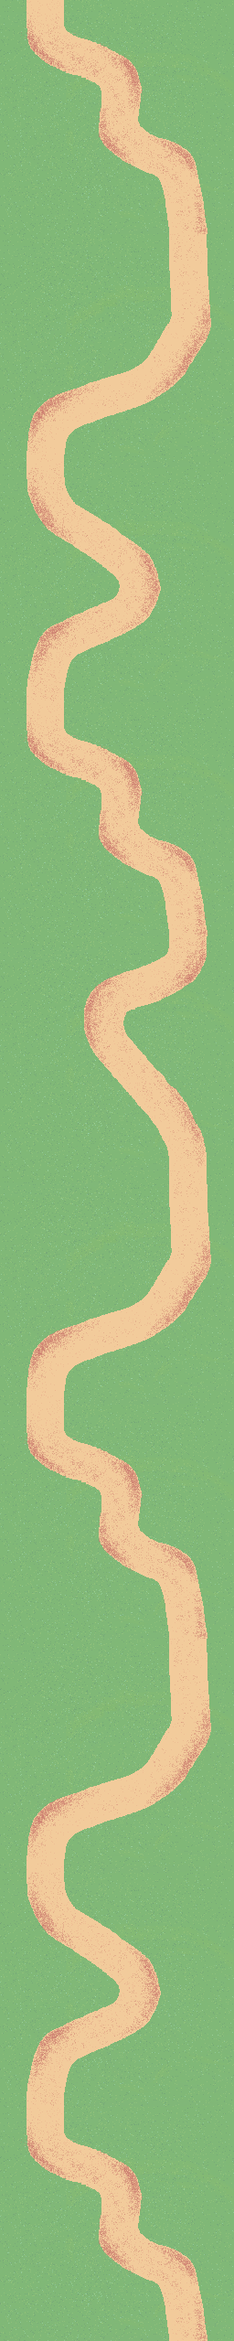
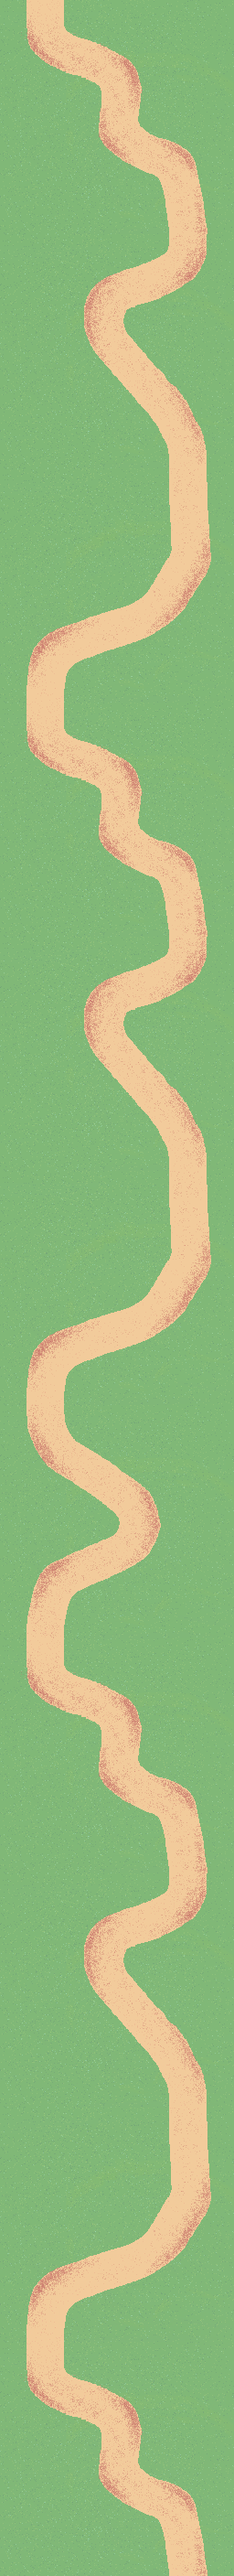
SISTEMATA LA MAPPA :D

diff --git a/src/main/java/com/example/carrace12/SpriteCar.java b/src/main/java/com/example/carrace12/SpriteCar.java
@@ -1,0 +1,81 @@
+package com.example.carrace12;
+
+import javafx.animation.AnimationTimer;
+import javafx.scene.image.Image;
+import javafx.scene.image.ImageView;
+
+import java.io.FileInputStream;
+import java.io.FileNotFoundException;
+import java.io.IOException;
+import java.io.InputStream;
+
+public class SpriteCar {
+    private double positionX;
+    private double positionY;
+    private int velX = 0, velY=0;
+    AnimationTimer atS;
+    ImageView car = new ImageView();
+
+    public SpriteCar(char startingPoint) throws IOException {
+        InputStream stream = new FileInputStream("src/main/resources/car.png");
+        Image img = new Image(stream);
+        car.setImage(img);
+        if(startingPoint == 'r'){ car.setX(ImplementazioneGrafica.xDimFinestra-200); }
+        else if(startingPoint == 'l'){ car.setX(200); }
+        car.setY(600);
+        car.setPreserveRatio(true);
+        positionX = car.getX();
+        positionY = car.getY();
+        car.setFitHeight(30);
+        car.setFitWidth(30);
+
+        atS = new AnimationTimer() {
+            @Override
+            public void handle(long l) {
+                positionX += velX;
+                car.setX(positionX);
+
+                positionY += velY;
+                car.setY(positionY);
+            }
+        };
+
+    }
+
+    void inclinazione (){}
+    void setVelX(int speed){
+        velX=speed;
+    }
+    void setVelY(int speed){
+        velY=speed;
+    }
+    double getPositionX(){
+        return positionX;
+    }
+    double getPositionY(){return positionY;}
+
+
+
+/*
+    void up(){
+        positionY = positionY - speed;
+        car.setY(positionY);
+    }
+
+    void down(){
+        positionY = positionY + speed;
+        car.setY(positionY);
+    }
+    void left(){
+        positionX = positionX - speed;
+        car.setX(positionX);
+    }
+    void right(){
+        positionX = positionX + speed;
+        car.setX(positionX);
+    }
+*/
+
+
+
+}

diff --git a/src/main/java/net/CRServer.java b/src/main/java/net/CRServer.java
@@ -1,12 +1,12 @@
 package net;
 
-import com.esotericsoftware.kryo.Kryo;
 import com.esotericsoftware.kryonet.*;
 
 import com.example.carrace12.ImplementazioneGrafica;
 import map.Map;
 
 import java.io.IOException;
+import java.util.List;
 
 /**
  * Car Race Lobby Server class.
@@ -22,7 +22,7 @@ public class CRServer {
     /**
      * Server (Kryonet).
      */
-    private final Server server;
+    final Server server;
 
     /**
      * Port of the Server.
@@ -43,6 +43,11 @@ public class CRServer {
      * If the Server is running.
      */
     public boolean isUsed;
+
+    /**
+     * Client List
+     */
+    public List<CRClient> clientList;
 
     /**
      * CRServer Constructor(s).
@@ -127,10 +132,11 @@ public class CRServer {
      */
     public void addListenerToServer(Map map) {
         this.server.addListener(new Listener() {
-            public void received(Connection connection, Object object) {
-                if (object instanceof String) {
-                    ImplementazioneGrafica.main(new String[]{ seed });
-                }
+            public void received(Connection connection, Object object){
+                //if (object instanceof CRRequest) {
+                    ImplementazioneGrafica GUI = new ImplementazioneGrafica();
+                    GUI.main(new String[]{ seed });
+                //}
             }
         });
     }

diff --git a/src/main/java/com/example/carrace12/mapBackground.java b/src/main/java/com/example/carrace12/mapBackground.java
@@ -1,0 +1,39 @@
+package com.example.carrace12;
+
+import javafx.animation.AnimationTimer;
+import javafx.scene.image.Image;
+import javafx.scene.image.ImageView;
+import map.Map;
+import map.Chunk;
+
+import java.io.FileInputStream;
+import java.io.FileNotFoundException;
+import java.io.IOException;
+import java.io.InputStream;
+
+import static map.Chunk.CHUNK_WIDTH;
+
+public class mapBackground {
+    ImageView background = new ImageView();
+    AnimationTimer atB;
+    private double yMap;
+    private double velY;
+    public mapBackground(Map map) throws IOException {
+        yMap = -(map.length()*CHUNK_WIDTH*4);
+        System.out.println("mapB: " + yMap);
+        InputStream stream = new FileInputStream("src/main/resources/map.png");
+        Image img = new Image(stream);
+        background.setImage(img);
+        atB = new AnimationTimer() {
+            @Override
+            public void handle(long l) {
+                yMap += velY;
+                background.setY(yMap + ImplementazioneGrafica.yDimFinestra);
+            }
+        };
+    }
+
+    void setVelYB(int speed){
+        velY=speed;
+    }
+}

diff --git a/src/main/java/com/example/carrace12/ImplementazioneGrafica.java b/src/main/java/com/example/carrace12/ImplementazioneGrafica.java
@@ -1,5 +1,6 @@
 package com.example.carrace12;
 
+import com.esotericsoftware.kryonet.Server;
 import javafx.application.Application;
 import javafx.event.EventHandler;
 import javafx.scene.Group;
@@ -9,6 +10,8 @@ import javafx.scene.input.KeyEvent;
 import javafx.stage.Stage;
 import map.Chunk;
 import map.Map;
+import net.CRClient;
+import net.CRServer;
 
 import javax.imageio.ImageIO;
 import java.awt.*;
